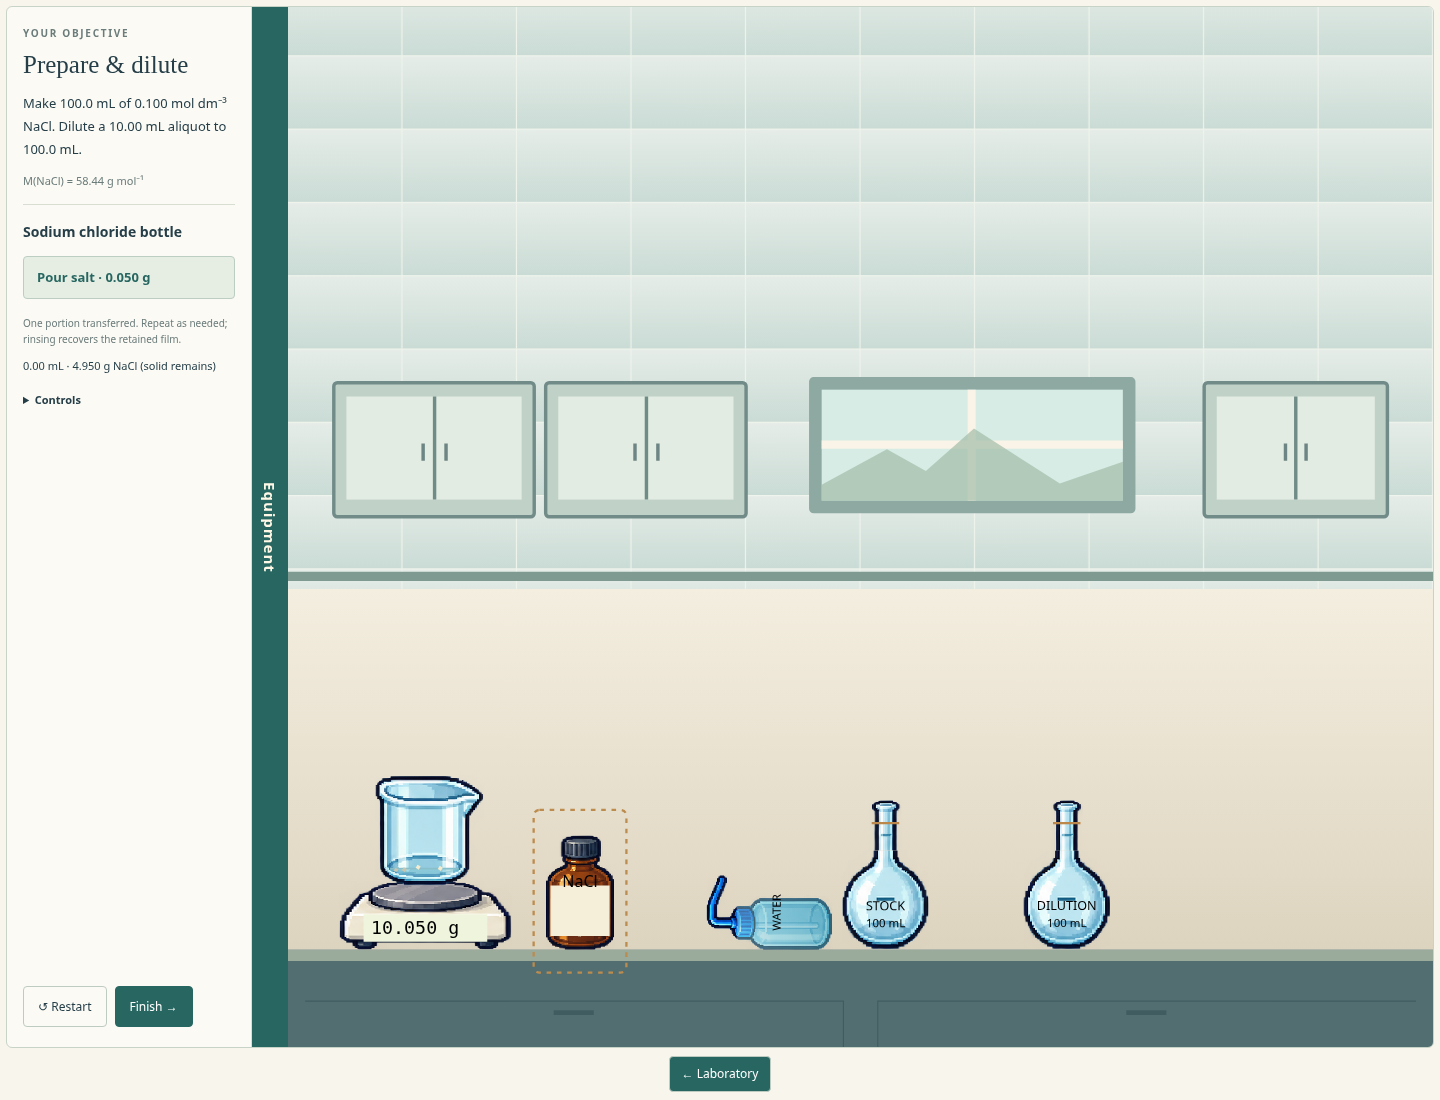
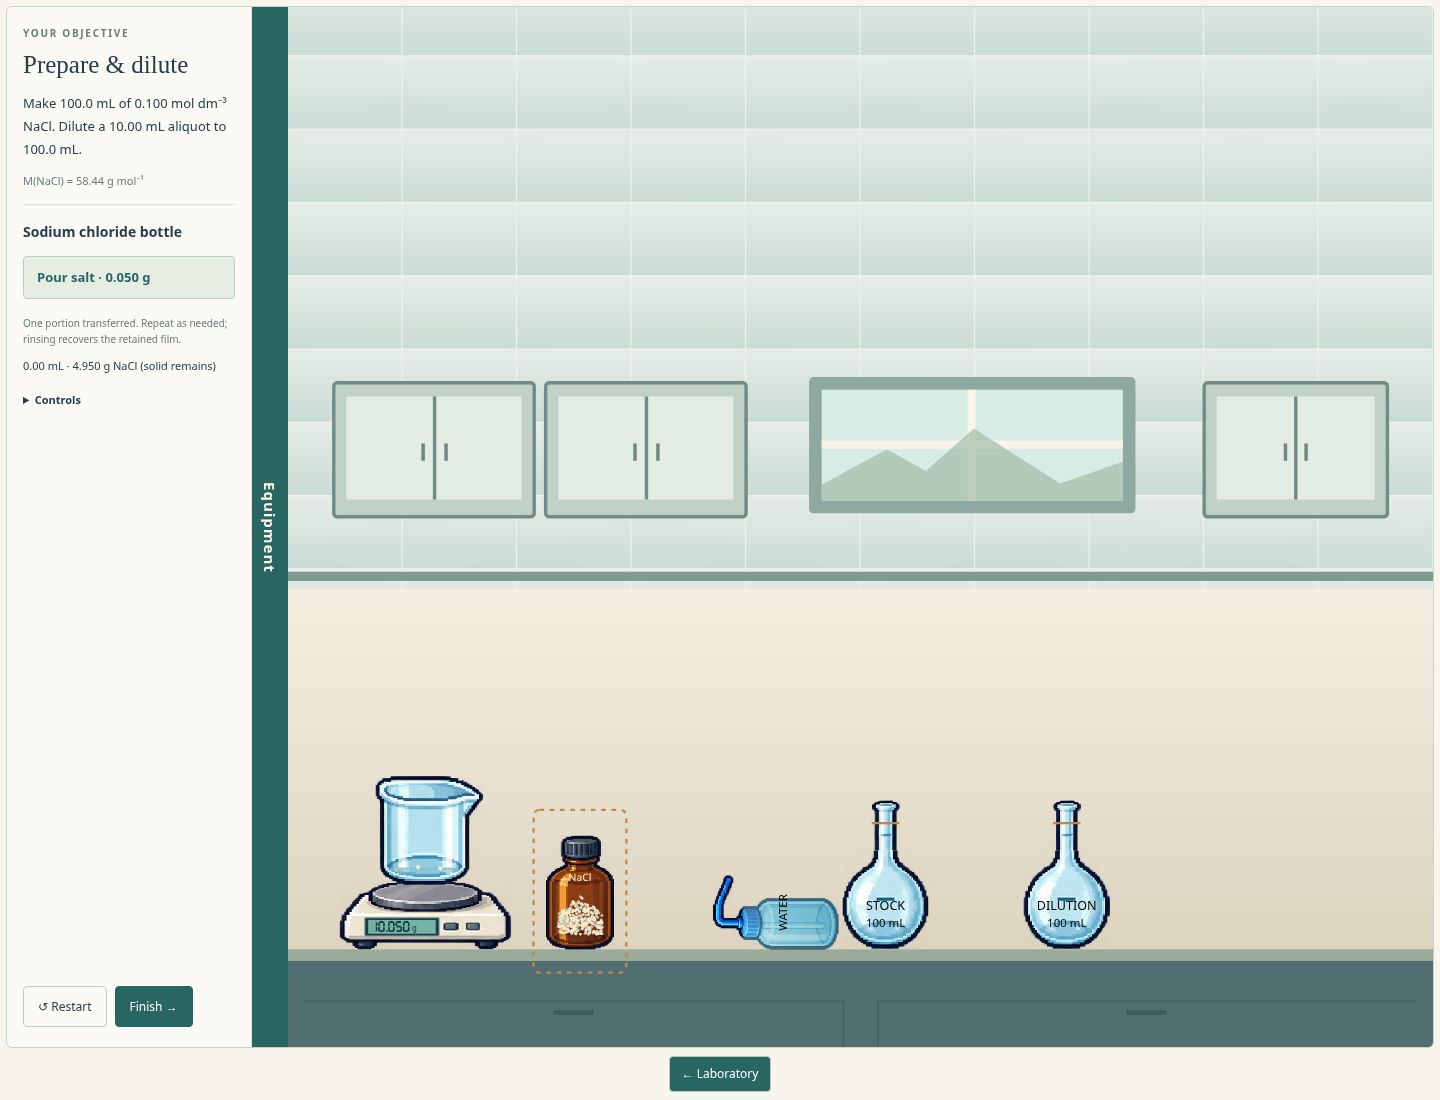
Integrate digital balance digits and reveal salt crystals

Changed region(s): [[0.4688, 0.8036, 0.5938, 0.8655], [0.375, 0.7727, 0.4375, 0.8655], [0.25, 0.8345, 0.3438, 0.8655]]

diff --git a/prototype/equipment-art.js b/prototype/equipment-art.js
@@ -14,6 +14,17 @@ function overlays(html,image='',id='',extra=''){
  return extracts(html,/<defs>[\s\S]*?<\/defs>/g)+mask+`<g ${image?`mask="url(#${maskId})"`:''}>`+extra+'<g class="equipment-contents">'+extracts(html,/<g clip-path="[^"]*">[\s\S]*?<\/g>/g)+'</g></g>'+extracts(html,/<text\b[^>]*>[\s\S]*?<\/text>/g)+extracts(html,/<rect class="select-outline"[^>]*\/>/g);
 }
 const metal=(x,y,w,h)=>rect(x,y,w,h,'fill="#23344e"')+rect(x+1,y+1,Math.max(1,w-2),Math.max(1,h-2),'fill="#6b8b9d"')+rect(x+1,y+1,Math.max(1,w-2),Math.min(2,h-2),'fill="#c6e6e8"');
+// Seven-segment glyphs sit inside the balance sprite's recessed LCD window.
+function balanceDisplay(html){
+ const value=html.match(/id="balance-reading"[^>]*>([^<]*)</)?.[1]||'0.000 g';
+ const segments={0:'abcdef',1:'bc',2:'abdeg',3:'abcdg',4:'bcfg',5:'acdfg',6:'acdefg',7:'abc',8:'abcdefg',9:'abcdfg','-':'g'};
+ const paths={a:'M1 0H5L6 1 5 2H1L0 1Z',b:'M5 2L6 1 7 2V5L6 6 5 5Z',c:'M5 7L6 6 7 7V10L6 11 5 10Z',d:'M1 10H5L6 11 5 12H1L0 11Z',e:'M-1 7L0 6 1 7V10L0 11-1 10Z',f:'M-1 2L0 1 1 2V5L0 6-1 5Z',g:'M1 5H5L6 6 5 7H1L0 6Z'};
+ let x=0,digits='';for(const c of value.replace(/\s*g$/,'')){
+  if(c==='.'){digits+=`<rect x="${x}" y="10" width="1.6" height="2"/>`;x+=3;continue;}
+  digits+=`<g transform="translate(${x} 0)">${Object.entries(paths).map(([key,d])=>`<path d="${d}" opacity="${(segments[c]||'').includes(key)?1:.07}"/>`).join('')}</g>`;x+=9;
+ }
+ return rect(-53,32,65,16,'rx="1" fill="#163e48" stroke="#8ba1aa" stroke-width="1"')+rect(-50,34,59,12,'fill="#76b3a7"')+`<g role="img" aria-label="${value}" transform="translate(-47 35) scale(.72 .8)" fill="#153c3a">${digits}<text x="${x+1}" y="11" font-size="10" font-family="monospace">g</text></g><text id="balance-reading" visibility="hidden" aria-hidden="true">${value}</text>`;
+}
 function supports(o,lab){
  let bottom=[-57,-7,92,23],rod=[-5,-231,10,230],cx=90,cy=-172,ring=true;
  if(lab==='distillation'){const right=o.id==='support2';bottom=[right?-25:-65,-8,90,24];cx=right?-195:90;cy=right?-134:-162;}
@@ -51,10 +62,11 @@ function vesselContents(o,html,lab,w,h){
  const salt='dissolved'in o?Math.max(0,(o.salt||0)-o.dissolved):lab==='evaporation'?Math.max(0,(o.salt||0)-(o.water||0)*.3):0;
  const materials=[{amount:o.sand||0,colour:'#bd975c'}, {amount:salt+(o.raw||0)+(o.crystals||0)+(o.chips||0)+(o.powder||0),colour:'#f5eccf'}];
  for(const m of materials){if(m.amount<=1e-9)continue;
-  const count=Math.min(70,Math.max(3,Math.ceil(m.amount*(o.capacity>2?80:220))));
+  const saltBottle=k==='bottle'&&lab==='solution';
+  const count=Math.min(saltBottle?360:70,Math.max(3,Math.ceil(m.amount*(o.capacity>2?80:220))));
   const base=k==='boat'?18:k==='basin'?67:bottom-2;
   const spread=k==='flask'?w*.55:k==='conical'?w*.7:w*.65;
-  contents+=Array.from({length:count},(_,i)=>{const x=((i*37%97)/97-.5)*spread,y=base-2-(i*29%17)/17*Math.min(15,3+count*.18),r=o.powder>0?1:1.7;return `<path class="solid-grain" d="M${x} ${y-r}l${r+1} ${r} -${r} ${r+1} -${r+1}-${r}Z" fill="${i%3?m.colour:'#c7c6b3'}"/>`;}).join('');
+  contents+=Array.from({length:count},(_,i)=>{const noise=n=>{const v=Math.sin(n*127.1+17)*43758.5453;return v-Math.floor(v);},x=((saltBottle?noise(i):(i*37%97)/97)-.5)*spread,y=base-2-(saltBottle?noise(i+401):(i*29%17)/17)*Math.min(saltBottle?34:15,3+count*.18)*(saltBottle?1-Math.abs(x)/spread:1),r=saltBottle?.55+noise(i+803)*.65:o.powder>0?1:1.7;return `<path class="solid-grain" d="M${x} ${y-r}l${r+1} ${r} -${r} ${r+1} -${r+1}-${r}Z" fill="${i%3?m.colour:'#c7c6b3'}"/>`;}).join('');
  }
  return `<defs><clipPath id="${id}"><path d="${interior}"/></clipPath></defs><g class="vessel-contents" clip-path="url(#${id})">${contents}</g>`;
 }
@@ -82,7 +94,7 @@ export function equipmentArt(o,html,lab,s){
   return image+extra+overlays(html);
  }
  if(k==='heater')return sprite('hotplate',-60,0,120,58)+`<circle cx="-32" cy="33" r="4" fill="${o.on?'#f3ad48':'#617481'}"/><text x="0" y="40" text-anchor="middle" font-size="10" fill="#f3f5db">${o.on?'ON':'OFF'}</text>`+extracts(html,/<rect class="select-outline"[^>]*\/>/g);
- if(k==='balance')return sprite('balance',-75,0,150,60)+rect(-54,29,108,24,'fill="#eff5dc"')+overlays(html);
+ if(k==='balance')return sprite('balance',-75,0,150,60)+balanceDisplay(html)+extracts(html,/<rect class="select-outline"[^>]*\/>/g);
  if(k==='thermometer'){
   const distill=lab==='distillation',t=distill?o.temperature:o.reading;
   image=sprite('thermometer',distill?-5:-4,distill?0:14,distill?10:8,distill?65:150);
@@ -121,7 +133,8 @@ export function equipmentArt(o,html,lab,s){
   else if(k==='cylinder')image=sprite(name,-22,0,44,114,[.18,0,.64,.88])+sprite(name,-22,114,44,6,[0,.88,1,.12]);
   else if(name==='volumetric')image=sprite(name,-14,0,28,44,[.30,0,.40,.45])+sprite(name,-width/2,44,width,height-44,[0,.45,1,.55]);
   else image=sprite(name,-width/2,0,width,height);
-  if(k==='bottle')extra+=rect(-width*.43,44,width*.86,44,'fill="#f5eed9"');
+  if(k==='bottle'&&lab!=='solution')extra+=rect(-width*.43,44,width*.86,44,'fill="#f5eed9"');
+  if(k==='bottle'&&lab==='solution')html=html.replace(/<text y="45"[^>]*>NaCl<\/text>/,'<text y="40" text-anchor="middle" font-size="9" fill="#fff1d1">NaCl</text>');
   if(name==='volumetric')extra+='<path d="M-12 20H12" stroke="#bc874a" stroke-width="2"/>';
   if(k==='cylinder')extra+=Array.from({length:11},(_,i)=>`<path d="M-20 ${114-i*9.6}h${i%5===0?19:10}" stroke="#385577"/>${i%5===0?`<text x="2" y="${117-i*9.6}" font-size="9">${i*10}</text>`:''}`).join('');
  }

diff --git a/docs/design/decisions.md b/docs/design/decisions.md
@@ -268,3 +268,7 @@ The owner reported misaligned equipment/contents, failed liquid and salt transfe
 The shared B adaptation now mirrors beakers toward the clockwise pouring side, uses explicit interior clips and grain-shaped solids, and composes volumetric flasks around their physical neck/bulb anchors. Visible workbench edges now meet the y=525 collision surface. Continuous pour outlets follow the right spouts; discrete additions accept either a centre-aligned receiver or one under the lip, preserving forgiving placement. Pouring no longer has an invisible maximum drop height; tool-use proximity remains unchanged. Direct salt/carbonate bottle portions supplement the existing spatula controls. These portions remain finite and student-operated; closed flasks remain closed.
 
 Balances now recognise beakers (including the combustion balance); solution preparation retains tare and includes vessel contents. Empty beaker 50 g and volumetric flask 60 g are implementation defaults, not measured apparatus data. Water/carrier mass uses the existing 1 g/mL approximation; solution-density changes are not modelled. Overview previews have visible clamps/supports and no hover lift. Chemistry targets, existing mistakes and local-only boundaries remain unchanged.
+
+## 24 October 2026 — Integrated balance display and visible salt
+
+The owner requested digital-looking balance digits integrated into the instrument and removal of the salt bottle's giant white box. The shared balance renderer now draws live seven-segment digits inside the sprite's recessed LCD window, preserving exact readings and accessibility text. The NaCl bottle's oversized label is removed; a small neck identifier leaves the amber glass and irregular fine crystals visible. This is an appearance correction; masses, pouring and collision geometry are unchanged. Native preparation/weighing checks and 187 model checks pass.

diff --git a/docs/design/design-b-equipment-review.md b/docs/design/design-b-equipment-review.md
@@ -41,3 +41,7 @@ The earlier checks did not establish that every artwork anchor or practical inte
 ![Beaker weighing water and salt after taring](../art/previews/beaker-balance-correction.png)
 
 Validation: 187 model tests pass. The twelve browser harnesses were exercised across the correction run, with affected pouring workflows rerun after outlet changes. Native checks cover high-clearance liquid pouring, direct salt pouring into a tared beaker (10.050 g after 10 mL water plus 0.050 g salt), solid grains, existing experiment completion, responsive layouts, and laboratory navigation. Owner review of these corrections remains pending.
+
+### Follow-up: LCD and salt bottle
+
+The balance now uses live seven-segment digits fitted to the recessed LCD in its drawing. The salt bottle's oversized cream label is removed, leaving a small NaCl identifier and irregular fine crystals visible through the glass. Exact readings, tare, inventory and pouring are preserved. The preview above is refreshed for this correction.
